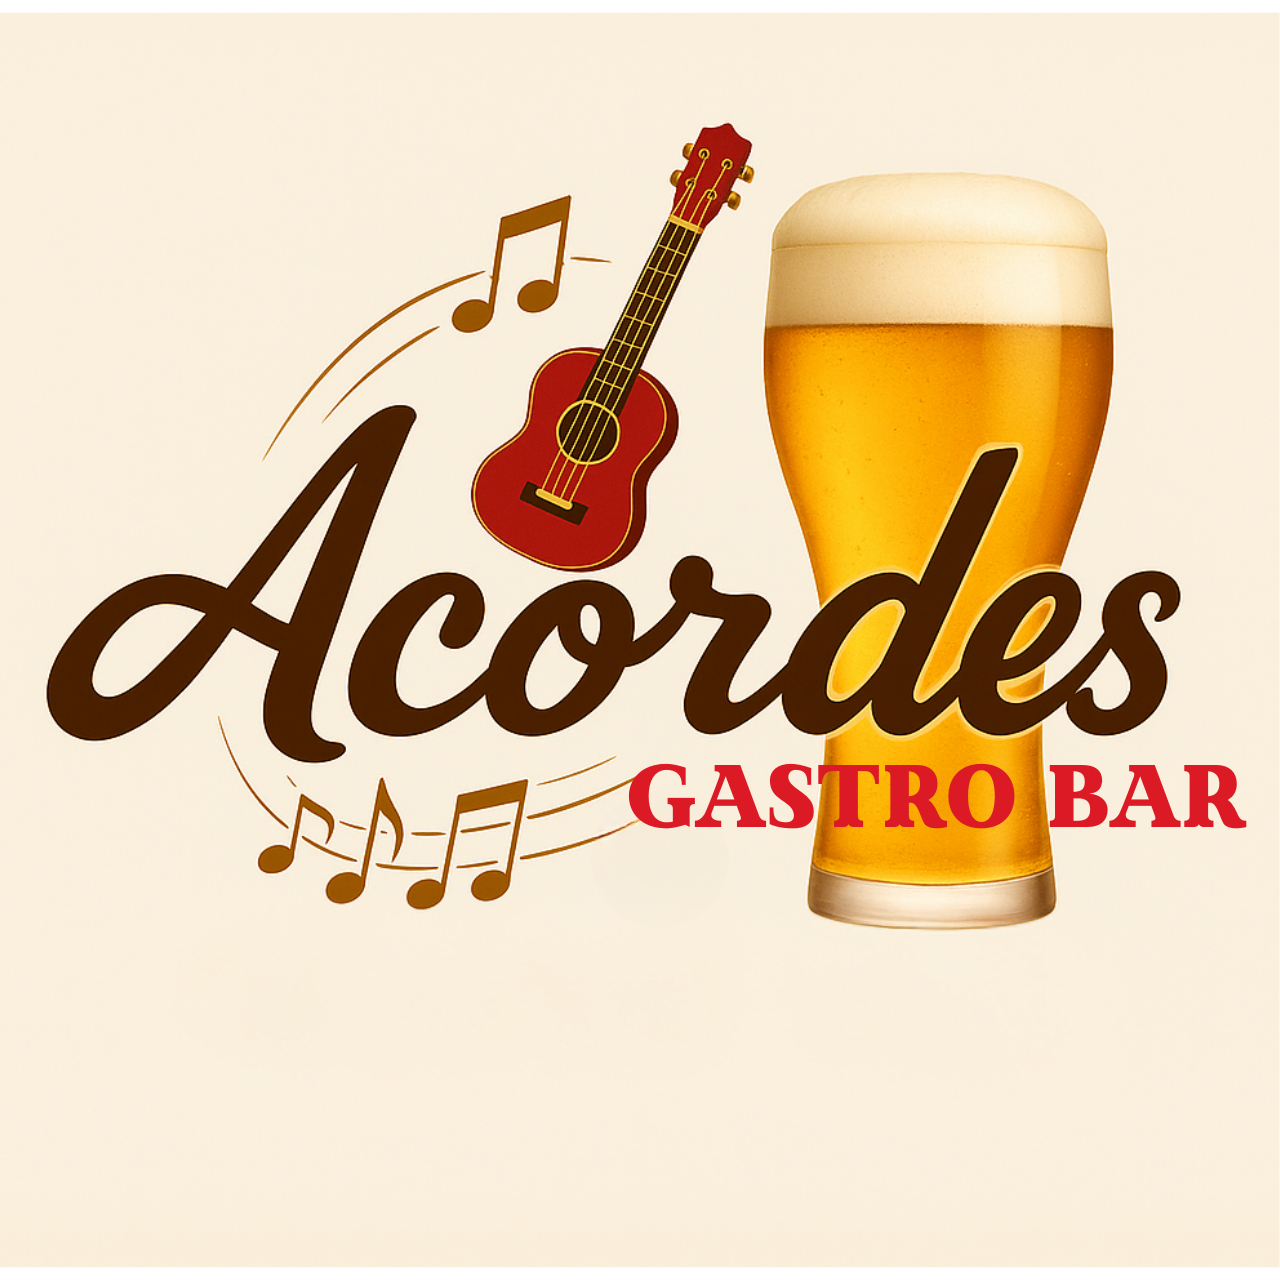
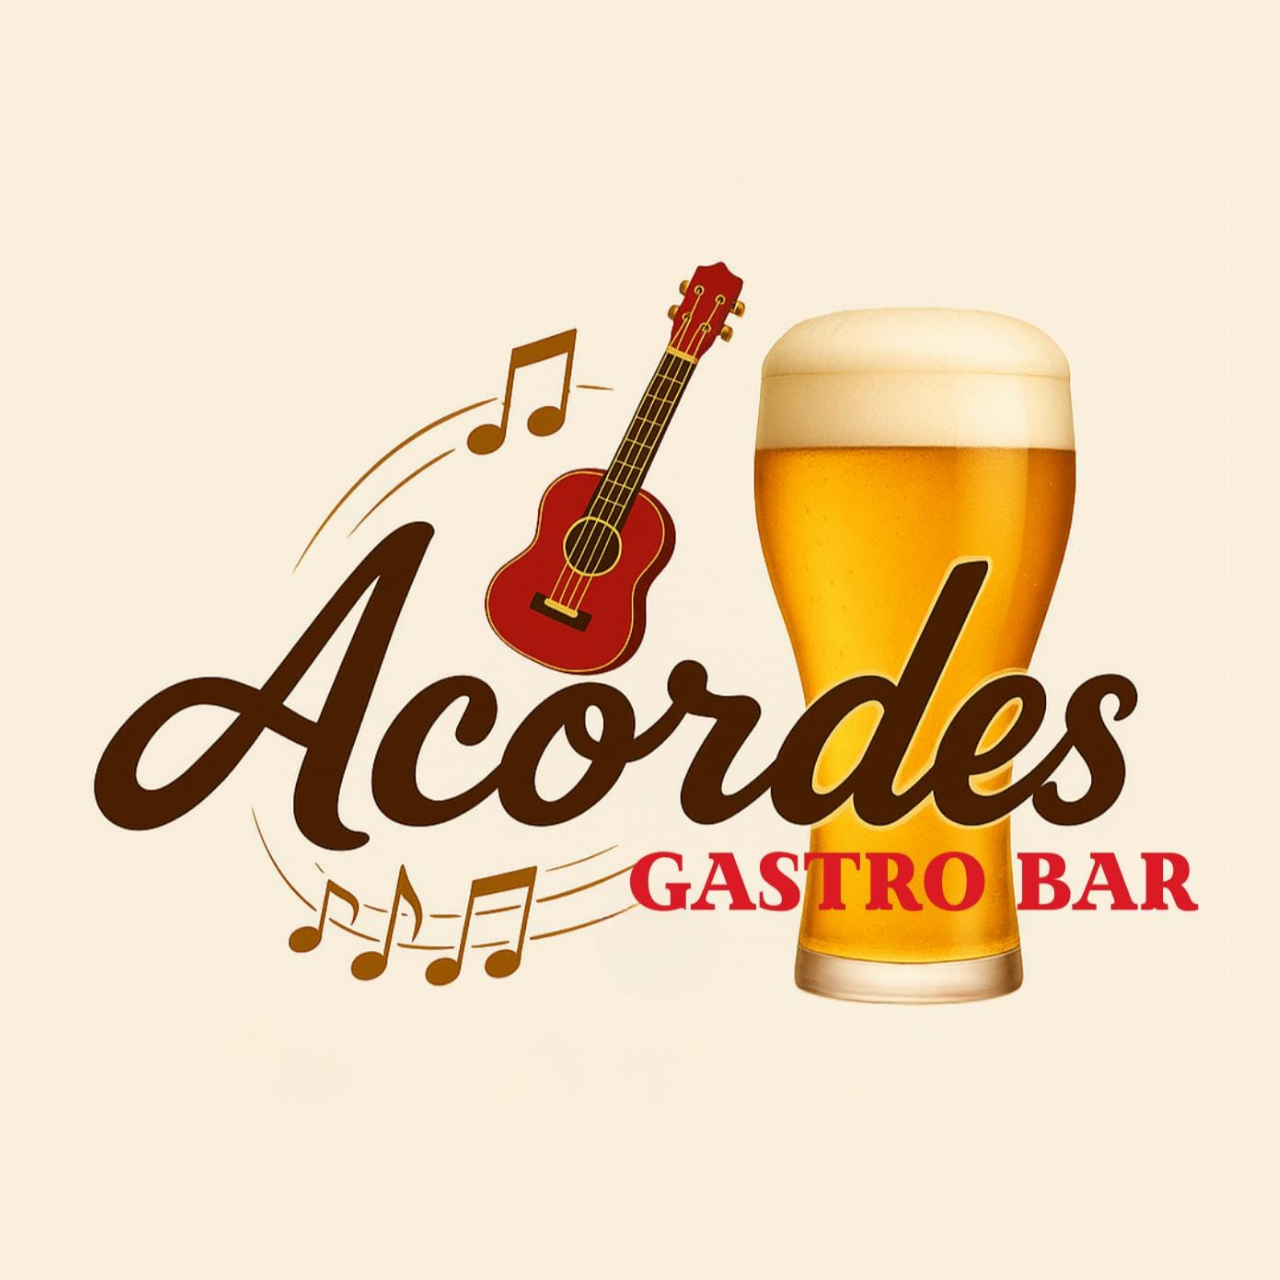
comit finish

Changed region(s): [[0.0312, 0.0938, 0.9688, 0.8125], [0.0, 0.9688, 1.0, 1.0], [0.0, 0.0, 1.0, 0.0312]]

diff --git a/script.js b/script.js
@@ -1,11 +1,11 @@
 // Menú de boquitas dinámico
 const bocas = [
-  { nombre: "Carne oreada", precio: "$1.00" },
-  { nombre: "Carne ahumada", precio: "$1.00" },
-  { nombre: "Chorizo", precio: "$1.00" },
-  { nombre: "Queso frito", precio: "$1.00" },
-  { nombre: "Sopa", precio: "$1.00" },
-  { nombre: "Ceviche camarón", precio: "$1.00" }
+  { nombre: "Carne oreada", precio: "$1.25" },
+  { nombre: "Carne ahumada", precio: "$1.25" },
+  { nombre: "Chorizo", precio: "$1.25" },
+  { nombre: "Queso frito", precio: "$1.25" },
+  { nombre: "Sopa", precio: "$1.25" },
+  { nombre: "Ceviche camarón", precio: "$1.25" }
 ];
 
 // Lista de cervezas
@@ -13,21 +13,33 @@ const cervezas = [
   { nombre: "Pilsener", precio: 1.25 },
   { nombre: "Golden", precio: 1.25 },
   { nombre: "Suprema", precio: 1.25 },
-  { nombre: "Agua", precio: 1.00},
-  { nombre: "Coca Cola", precio: 1.00 }
+  { nombre: "Agua", precio: 1.25},
+  { nombre: "Coca Cola", precio: 1.25 },
 ];
 
 function mostrarCervezas() {
   const contenedor = document.getElementById('cervezas-menu');
   cervezas.forEach(cerveza => {
-    const item = document.createElement('div');
-    item.className = 'cerveza-item';
-    item.innerHTML = `
-    <span class="nombre">${cerveza.nombre}</span>
-    <span class="puntos">....</span>
-    <span class="precio">$${cerveza.precio.toFixed(2)}</span>
+    const div = document.createElement('div');
+    div.className = 'cerveza-item';
+    div.innerHTML = `
+      <span class="cerveza-nombre">${cerveza.nombre}</span>
+      <span class="cerveza-price">$${cerveza.precio.toFixed(2)}</span>
     `;
-    contenedor.appendChild(item);
+    // Animación en hover/click
+    div.addEventListener('mouseenter', () => div.classList.add('active'));
+    div.addEventListener('mouseleave', () => div.classList.remove('active'));
+    // Para móvil: toggle al tocar
+    div.addEventListener('touchstart', function(e) {
+      e.stopPropagation();
+      document.querySelectorAll('.cerveza-item').forEach(item => item.classList.remove('active'));
+      div.classList.add('active');
+    });
+    contenedor.appendChild(div);
+  });
+  // Cierra animación en móvil al tocar fuera
+  document.body.addEventListener('touchstart', function() {
+    document.querySelectorAll('.cerveza-item').forEach(item => item.classList.remove('active'));
   });
 }
 
@@ -38,8 +50,8 @@ document.addEventListener("DOMContentLoaded", () => {
     const div = document.createElement('div');
     div.className = 'boca-item';
     div.innerHTML = `
-    <span class="boca-nombre">${boca.nombre}</span>
-    <span class="boca-price">${boca.precio}</span>
+      <span class="boca-nombre">${boca.nombre}</span>
+      <span class="boca-price">${boca.precio}</span>
     `;
     // Animación en hover/click
     div.addEventListener('mouseenter', () => div.classList.add('active'));
@@ -52,7 +64,7 @@ document.addEventListener("DOMContentLoaded", () => {
     });
     bocasMenu.appendChild(div);
   });
-  
+
   // Cierra animación en móvil al tocar fuera
   document.body.addEventListener('touchstart', function() {
     document.querySelectorAll('.boca-item').forEach(item => item.classList.remove('active'));

diff --git a/styles.css b/styles.css
@@ -99,7 +99,8 @@ main {
   text-shadow: 1px 1px 8px #000a;
 }
 
-.bocas-menu {
+.bocas-menu,
+.cervezas-menu {
   display: flex;
   flex-wrap: wrap;
   gap: 1rem;
@@ -107,7 +108,8 @@ main {
   margin-bottom: 1.5rem;
 }
 
-.boca-item {
+.boca-item,
+.cerveza-item {
   background: #181818;
   border: 2px solid var(--accent-color);
   color: var(--accent-color);
@@ -130,7 +132,8 @@ main {
   overflow: hidden;
 }
 
-.boca-item .boca-price {
+.boca-item .boca-price,
+.cerveza-item .cerveza-price {
   opacity: 0;
   position: absolute;
   left: 0; right: 0;
@@ -144,7 +147,9 @@ main {
 }
 
 .boca-item:hover,
-.boca-item.active {
+.boca-item.active,
+.cerveza-item:hover,
+.cerveza-item.active {
   background: var(--accent-color);
   color: #181818;
   border-color: var(--red-detail);
@@ -154,7 +159,9 @@ main {
 }
 
 .boca-item:hover .boca-price,
-.boca-item.active .boca-price {
+.boca-item.active .boca-price,
+.cerveza-item:hover .cerveza-price,
+.cerveza-item.active .cerveza-price {
   opacity: 1;
   transform: translateY(0);
   animation: pricePop 0.5s;
@@ -164,45 +171,6 @@ main {
   0% { opacity: 0; transform: translateY(30px) scale(0.8);}
   60% { opacity: 1; transform: translateY(-4px) scale(1.1);}
   100% { opacity: 1; transform: translateY(0) scale(1);}
-}
-
-/* Estilos para la sección de cervezas */
-.cervezas-menu {
-  margin-bottom: 1rem;
-}
-
-.cerveza-item {
-  display: flex;
-  align-items: center;
-  margin-bottom: 12px;
-  font-size: 1.1em;
-  padding: 8px 0;
-  border-bottom: 1px solid #ffd70022;
-}
-
-.cerveza-item .nombre {
-  font-weight: bold;
-  color: var(--accent-color);
-  flex-shrink: 0;
-  min-width: 80px;
-}
-
-.cerveza-item .puntos {
-  flex-grow: 1;
-  text-align: center;
-  color: #666;
-  margin: 0 10px;
-  letter-spacing: 3px;
-  font-size: 0.9em;
-  overflow: hidden;
-  white-space: nowrap;
-}
-
-.cerveza-item .precio {
-  font-weight: bold;
-  color: var(--red-detail);
-  flex-shrink: 0;
-  font-size: 1.1em;
 }
 
 .prices {
@@ -268,22 +236,15 @@ ul.menu-list li {
     padding: 1rem 0.5rem;
     max-width: 98%;
   }
-  .bocas-menu {
+  .bocas-menu,
+  .cervezas-menu {
     gap: 0.5rem;
   }
-  .boca-item {
-    min-width: 90px;
-    padding: 0.7rem 0.7rem 1.7rem 0.7rem; /* padding-bottom más grande para móviles */
-    font-size: 1rem;
-  }
+  .boca-item,
   .cerveza-item {
+    min-width: 90px;
+    padding: 0.7rem 0.7rem 1.7rem 0.7rem;
     font-size: 1rem;
-  }
-  .cerveza-item .nombre {
-    min-width: 70px;
-  }
-  .cerveza-item .puntos {
-    letter-spacing: 2px;
   }
 }
 

diff --git a/index.html b/index.html
@@ -9,23 +9,25 @@
 </head>
 <body>
   <header>
-    <img src="img/Gastro Bar1.PNG" alt="Logo de Acordes Gastro Bar." class="logo-img">
+    <img src="img/Gastro Bar.png" alt="Logo for Acordes Gastro Bar featuring a large glass of beer with a foamy head next to a red guitar and musical notes. The text Acordes appears in bold script with Gastro Bar in red capital letters. The background is light, creating a lively and welcoming atmosphere that suggests music and relaxation.">
     <h1>ACORDES GASTRO BAR</h1>
     <p class="slogan">"El compás perfecto para tu relax"</p>
   </header>
   <main>
     <section class="menu-section">
+      <!-- Ahora primero las bebidas -->
+      <div class="card animated-menu">
+        <h2>Nuestras Cervezas</h2>
+        <div id="cervezas-menu" class="cervezas-menu"></div>
+      </div>
+      <!-- Después las boquitas -->
       <div class="card animated-menu">
         <h2>Boquitas</h2>
         <div id="bocas-menu" class="bocas-menu"></div>
         <div class="prices">
-          Plato de bocas: $3.00
+          Plato de bocas: $3.75
           <br>4 Boquitas
         </div>
-      </div>
-      <div class="card animated-menu">
-        <h2>Nuestras Cervezas</h2>
-        <div id="cervezas-menu" class="cervezas-menu"></div>
       </div>
     </section>
 
